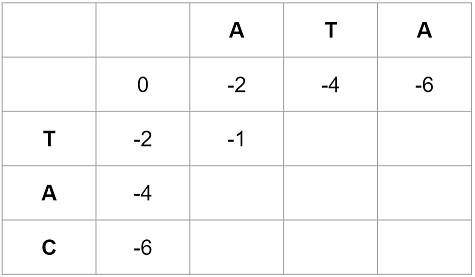
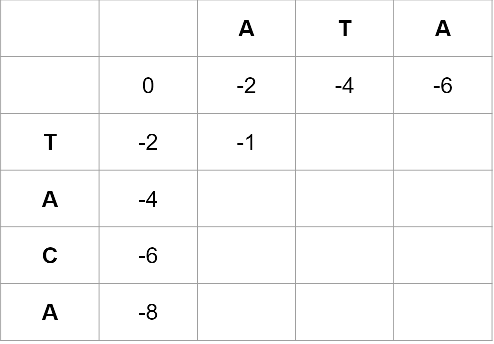
arrumando

Changed region(s): [[0.0, 0.0, 1.0, 1.0], [0.2653, 0.8664, 0.3242, 0.9531], [0.0884, 0.8664, 0.1179, 0.9531]]

diff --git a/src/exemplo.md b/src/exemplo.md
@@ -103,7 +103,8 @@ Como fizemos anteriormente, precisamos preencher agora a primeira coluna da matr
 Ou seja, apartir dessa coluna podemos concluir que:
 1. o score de alinhamento de T com algo vazio é -2,pois é um Gap;
 2. o score de alinhamento de TA com algo vazio é -4,pois tambem é um Gap;
-3. o score de alinhamento de ATC com algo vazio é -6,pois tambem é um Gap.
+3. o score de alinhamento de TAC com algo vazio é -6,pois tambem é um Gap.
+4. o score de alinhamento de TACA com algo vazio é -8,pois tambem é um Gap.
 
 :::
 ???
